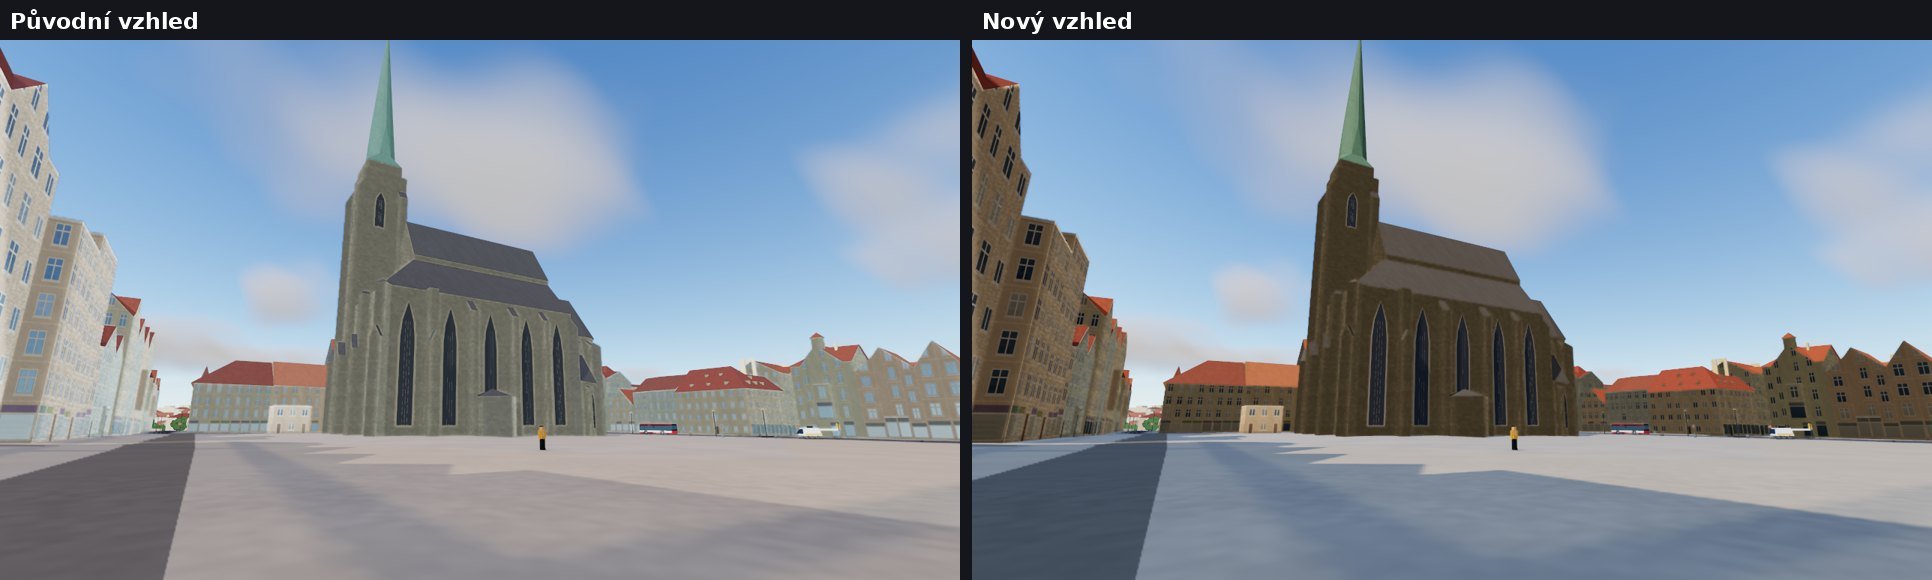
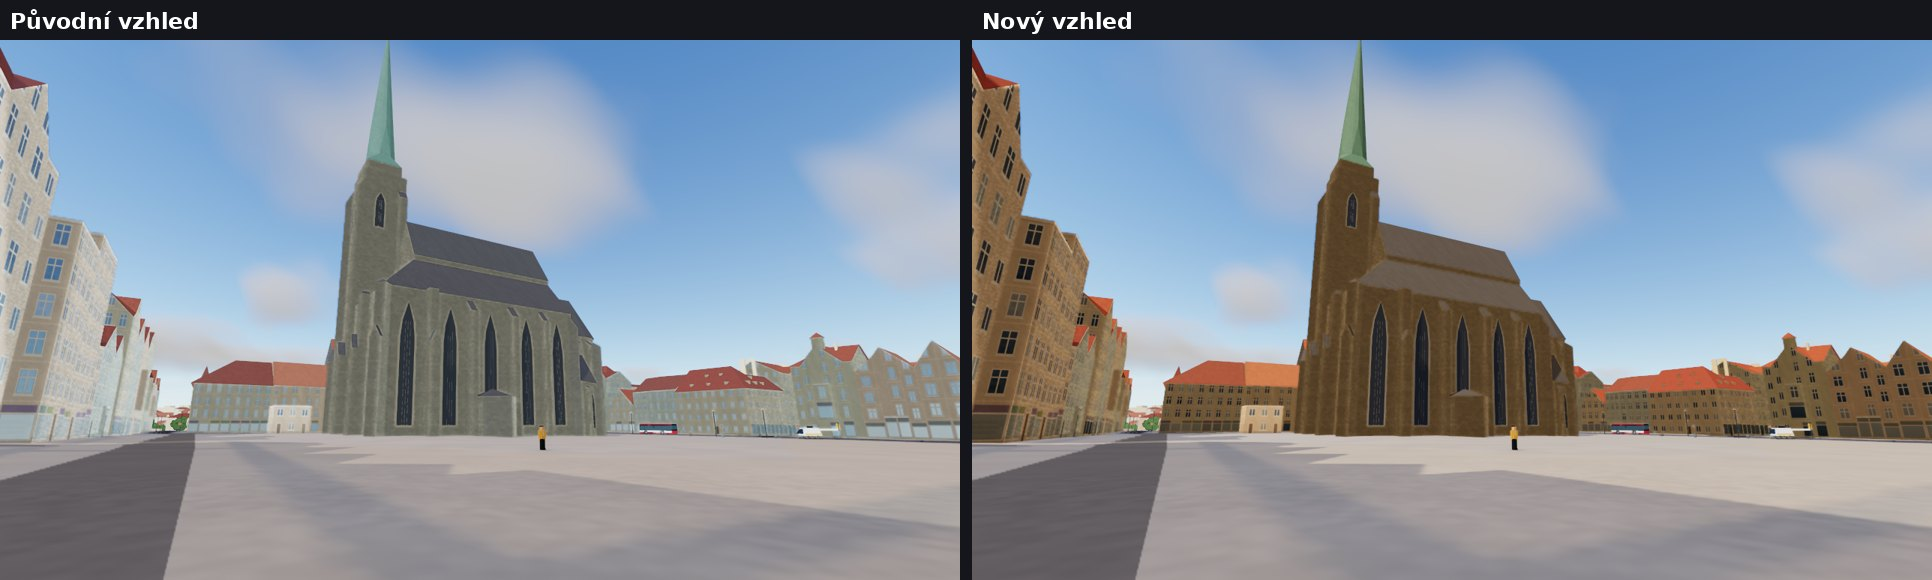
Doplnit výsledky prohlížečových testů a snímky výsledné revize
Claude-Session: https://claude.ai/code/session_011W64quAwPnNswii41KWQwE

Changed region(s): [[0.4969, 0.0931, 1.0, 1.0]]

diff --git a/docs/vzhledova-zkouska.md b/docs/vzhledova-zkouska.md
@@ -12,9 +12,9 @@ Měření ve hře ukázalo tři příčiny vybledlého obrazu.
 
 ## Co se změnilo
 
-- **Rozdělení denního světla** je v nové čisté funkci `daylight()` v [src/world/daylight.js](../src/world/daylight.js). Za jasného dne svítí slunce s intenzitou 3,1 a obloha 2,0 v chladnějším tónu. Při zatažení slunce slábne a obloha přebírá jeho podíl. Stín má ve dne plnou sílu. Noc zůstává beze změny.
+- **Rozdělení denního světla** je v nové čisté funkci `daylight()` v [src/world/daylight.js](../src/world/daylight.js). Za jasného dne svítí slunce s intenzitou 3,1 a obloha 2,2 ve stejném teplém tónu jako dřív. Při zatažení slunce slábne a obloha přebírá jeho podíl. Stín má ve dne plnou sílu. Noc zůstává beze změny.
 - **Zem v mapě odrazů** je pod obzorem tmavší, zhruba osmina jasu obzoru ([src/world/sky-light.js](../src/world/sky-light.js)).
-- **Fasády mají vlastní slabý odraz oblohy** (`setFacadeEnvironment` v [src/world/materials.js](../src/world/materials.js)). Auta, sklo a voda odrážejí oblohu dál.
+- **Fasády mají vlastní slabý odraz oblohy** (`setFacadeEnvironment` v [src/world/materials.js](../src/world/materials.js)), dvacetkrát slabší než zbytek scény. Voda, auta a dlažba odrážejí oblohu stejně jako dřív. Výlohy dostaly slabý odlesk barvy obzoru přímo v materiálu fasády.
 - **Omítky jsou o něco světlejší a sytější** (`wallLift` v [src/world/daylight.js](../src/world/daylight.js), použito v [src/world/building-nodes.js](../src/world/building-nodes.js)). Tmavá barva se zesvětlí o 45 %, světlá o 12 %. Bez této úpravy by stěny ve stínu se silnějším sluncem zčernaly.
 - **Koruny stromů jsou oblé.** Normály listí míří od středu koruny, odstín se mění plynule. Počet trojúhelníků zůstal stejný. Vzdálené pohledy stromů vznikly znovu nástrojem `tools/build_impostors.mjs`. Nástroj nejdřív ze staré verze vyrobil soubor shodný bajt po bajtu s vydaným atlasem. Teprve potom se nový atlas převzal z `data-raw/kandidat/`. Seznam otisků grafiky obnovil `tools/freeze_graphics.mjs`, změnil se jen řádek atlasu stromů.
 
@@ -34,12 +34,14 @@ Chromium 159 na softwarovém WebGL 2 (SwiftShader), vysoká předvolba, 1280 × 
 
 ## Výsledky zkoušek
 
-- `npm test`: prošlo všech 197 testů JavaScriptu. Nové testy hlídají rozdělení světla, původní hodnoty pro `?vzhled=puvodni`, beze změny v noci, zesvětlení omítek a oblé normály korun.
+- `npm test`: prošlo všech 197 testů JavaScriptu. Nové testy hlídají rozdělení světla, původní hodnoty pro `?vzhled=puvodni`, beze změny v noci, teplý tón oblohy, slabý odraz na fasádách, zesvětlení omítek a oblé normály korun.
 - `npm run build` prošlo. Sestavená hra se z podsložky (stejně jako na GitHub Pages) načetla bez chyb a bez chybějících souborů.
 - **Původní vzhled se dá obnovit.** Snímky s `?vzhled=puvodni` se od snímků před úpravou liší jen jemným zrněním na texturách fasád. Způsobuje ho vyhlazování mezi snímky. Odchylka nad čtyři úrovně barvy zasáhla 0,2 až 5,0 % pixelů, nejvýš o 32 úrovní.
 - **Noc a déšť:** ve 23 hodin vypadá náměstí stejně jako dřív, jen omítky jsou o něco světlejší. V dešti se mokrá vozovka leskne jako dosud.
 - **Výkon:** úprava nepřidává žádný průchod vykreslování ani trojúhelníky. Fasády používají stejnou mapu odrazů jako zbytek scény, jen se slabší vahou. Měření výkonu na autorově zařízení zatím chybí.
-- Prohlížečové testy materiálů, oblohy, expozice, fasád, stínů, nočního města, interiérů, památek a rozpočtu vykreslování: běží; výsledek doplní další revize.
+- **Prohlížečové testy** materiálů, oblohy, expozice, fasád, stínů, nočního města, interiérů, památek a rozpočtu vykreslování (9 souborů) na WebGL 2: na výsledné revizi prošlo všech 22. Rozpočet vykreslovacích volání a trojúhelníků se vešel do mezí pro všechny čtyři předvolby.
+- **Dvě chyby odhalené testy a opravené:** První verze zeslabila odraz oblohy pro celou scénu a mělká voda pod Wilsonovým mostem ztmavla (modrá 122, test žádá nad 125). Odraz proto zůstal slabý jen na fasádách. Druhá verze měla chladné světlo oblohy a dlažba náměstí ve stínu zešedla (136 / 140 / 142, test žádá červenou nad 170 a teplý tón). Měření pěti variant ukázalo, že barvu drží až původní teplý tón oblohy (173 / 158 / 143). Testy zůstaly beze změny.
+- **WebGPU v tomto prostředí:** softwarové WebGPU v cloudu hlásí u většiny testů „createBuffer failed … too large for the implementation“. Stejných sedm testů materiálů padá se stejnou chybou i na revizi `d868511` před úpravou. Jde o omezení prostředí, ne o důsledek změny. Kontrola na WebGPU s grafickou kartou zůstává otevřená.
 
 ## Známé odchylky a další kroky
 
@@ -47,4 +49,5 @@ Chromium 159 na softwarovém WebGL 2 (SwiftShader), vysoká předvolba, 1280 × 
 - Měřené domy v centru mají z dat převážně okrové a hnědé omítky. Pestřejší paleta by vyžadovala novou sadu barev v nástroji `tools/build_building_materials.py`.
 - Velké rozdíly proti HrejBrnu zůstávají v modelech: postava, tramvaje a auta jsou jednoduché. Ty by byly dalším krokem po schválení vzhledu.
 - Výlohy za soumraku odrážejí oranžovou oblohu slaběji než dřív. Mají jen slabý odlesk barvy obzoru.
+- Celkový tón je teplejší a do oranžova, hlavně střechy z nadhledu. Pokud bude působit přehnaně, stačí ubrat sytost omítek (`WALL_SATURATION`).
 - Náměstí v přímém slunci je velmi světlé. Expozice se řídí průměrem obrazu, takže domy ve stínu vedle něj působí tmavší.
